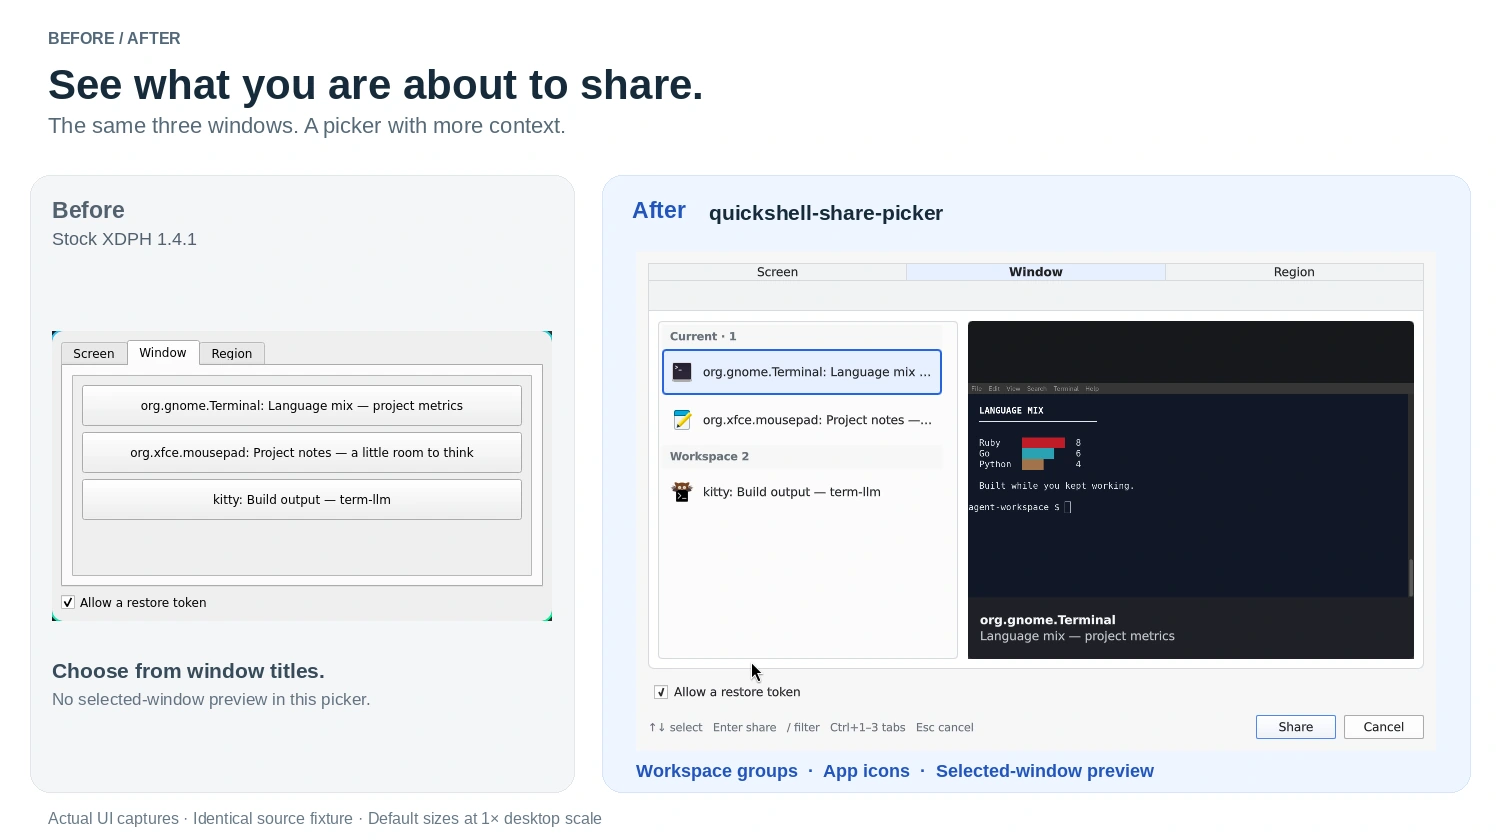
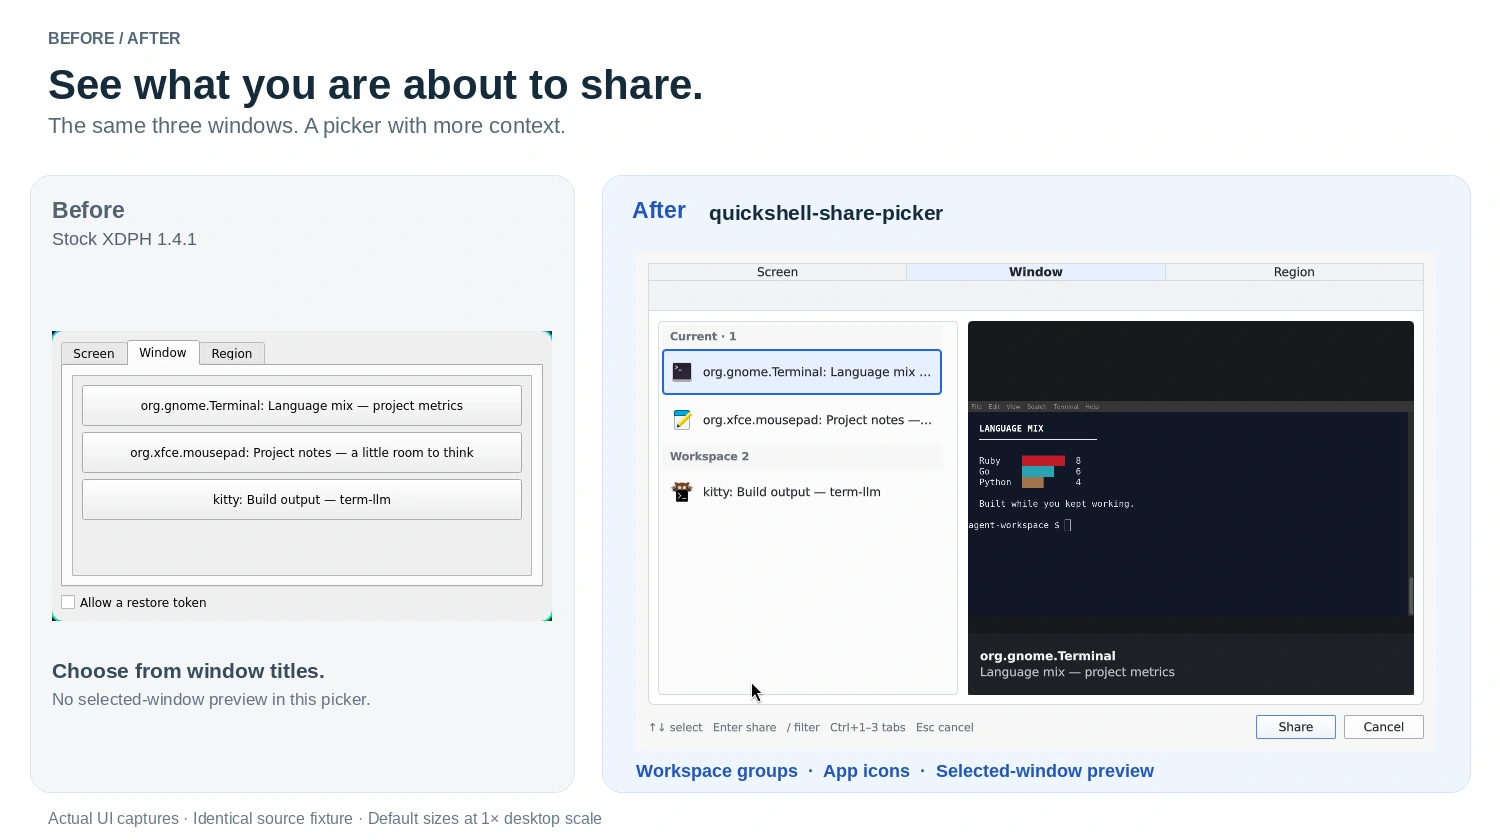
Recapture clean picker defaults and document upgrade behavior

Changed region(s): [[0.644, 0.4333, 0.9507, 0.65], [0.644, 0.7119, 0.9507, 0.8357], [0.4293, 0.7738, 0.552, 0.8357]]

diff --git a/docs/VISUALS.md b/docs/VISUALS.md
@@ -10,12 +10,14 @@ These are **actual UI captures**, not recreated dialogs. They compare:
 
 | | Before | After |
 | --- | --- | --- |
-| Picker | Arch's `hyprland-share-picker`, XDPH **1.4.1-2** | `quickshell-share-picker` checkout [`a8ade4c`](https://github.com/SamSaffron/quickshell-share-picker/commit/a8ade4c6179a50682023ffeb810e5eb06b7d4237), `VERSION` 0.2.1 |
+| Picker | Arch's `hyprland-share-picker`, XDPH **1.4.1-2** | `quickshell-share-picker` checkout [`a51dbde`](https://github.com/SamSaffron/quickshell-share-picker/commit/a51dbdeaa071bf92bb9c2cb50a6a694a350d1d51), including the restore-token opt-in change (`VERSION` 0.2.1) |
 | Tab | Window, selected for the comparison | Window, the default |
 | Native size | 500 × 290 | 800 × 500 |
 | Display | Same 1920 × 1080 output, 1× scale | Same |
 | Sources | Same three selector records and real lab windows | Same |
-| Restore-token choice | Visible and checked | Visible and checked |
+| Restore-token choice | Visible and unchecked (stock default) | Hidden and disabled (new default) |
+
+Neither capture passes `--allow-token` or enables the optional token-selection environment setting. The difference in checkbox visibility is actual default behavior, not image editing. A separate live check confirmed the replacement returns `[SELECTION]/window:1` by default; enabling its optional checkbox and checking it changes the result to `[SELECTION]r/window:1`.
 
 The crops are shown at the **same pixel scale**, preserving both pickers' default sizes. The stock Qt picker uses its light Fusion style; the replacement uses its default light palette. Framing, labels and explanatory captions were added around the screenshots, not inside the controls.
 

diff --git a/docs/INSTALL.md b/docs/INSTALL.md
@@ -120,7 +120,9 @@ The existing config backup and unrelated settings are preserved. The helper's
 `check` reports setup needed while the effective setting is still true. Until
 you update that older configuration, XDPH can continue passing `--allow-token`.
 Previously, merely defining `XDPH_PICKER_ALLOW_TOKEN_SELECTION` showed the choice;
-it now requires `=1`. No user configuration is changed by a root package install.
+it now requires `=1`. Remove an existing `XDPH_PICKER_ALLOW_TOKEN_SELECTION=1`
+service setting if you want the default checkbox-free dialog again. No user
+configuration is changed by a root package install.
 
 After changing the configuration manually, restart the portal (this interrupts
 active portal sessions):
